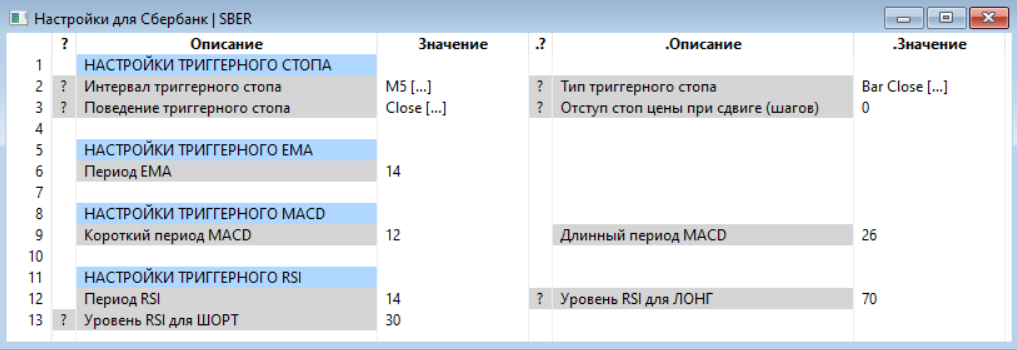
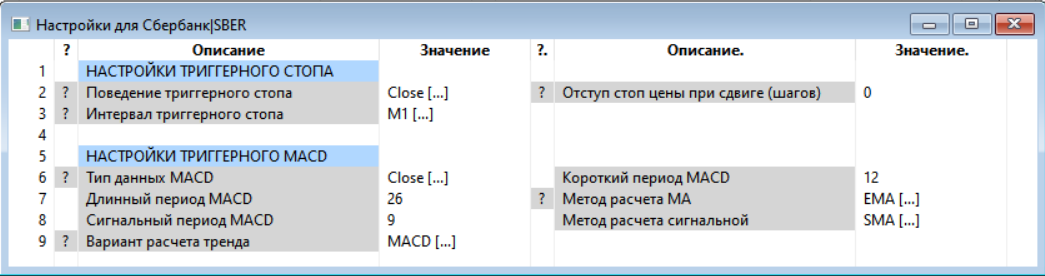
as descr

diff --git a/_posts/2021-03-14-multiAutoStop.md b/_posts/2021-03-14-multiAutoStop.md
@@ -71,23 +71,48 @@ tags: [скрипт,lua,qlua,квик,quik,автостоп]
 
 ![](/assets/images/mas/mAS_0.PNG)
 
+Если включить настройку отображения окна настроек с закладками (параметр WINDOW_TABS = 1 в файле multiAutoStopUltra_params.txt), то окно будет показано в таком виде:
+
+![](/assets/images/mas/tab_settings.PNG)
+
+
 Большинство параметров содержат описание. Его можно вызвать по кнопке "?".
 
 ![](/assets/images/mas/mAS_2.PNG)
 
 ### Раздел “ОБЩИЕ НАСТРОЙКИ” содержит настройки:
 
- - Идентификатор скрипта - комментарий, добавляемый к транзакциям. По нему можно будет определить ордера и сделки, совершенные скриптом.
- - Запустить при запуске - автоматический запуск строк скрипта при запуске.
+ - Идентификатор скрипта - комментарий, добавляемый к транзакциям. По нему можно будет определить ордера и сделки, совершенные скриптом. Идентификатор должен быть уникальным среди всех скриптов и строк скрипта. При этом необходимо обеспечить уникальность "по вхождению". Для примера идентификаторы str и str1 не уникальные, т.к. первый входит во второй. А str0 и str1 уже уникальные. Не допускается использовать символы ( ) . % + - * ? [ ^ $
+ - Запустить при запуске - в режиме ON при загрузке Квика и при условии, что скрипт робота в разделе Сервисы – Lua скрипты также запущен, то робот сам включится и будет отслеживать позиции согласно своих настроек.
  - Время автозапуска - конкретное время для автозапуска. Указывается как строка вида ЧЧ:ММ:СС. Либо ЧЧ:ММ. Если указано, то настройка "Запустить при автозапуске" не работает.
  - Время автоостановки - время остановки сроки скрипта. Указывается как строка вида ЧЧ:ММ:СС. Либо ЧЧ:ММ.
- - автоматическое закрытие позиции по времени автоостановки.
+ - Закрывать позицию при автоостановке - автоматическое закрытие позиции по времени автоостановки.
  - Заменять инструмент на следующий за указанное число дней до экспирации. Важно: происходит только замена инструмента в строке скрипта. Позиция и уже выставленные ордера при этом не затрагиваются.
- - Идентификатор графика куда будут выводиться метки сделок в виртуальном режиме работы. Также метки скрытых стоп-ордеров. Задается в разделе "Дополнительно" свойств цены графика.
  - Отправлять сообщения в Телеграм.
  - Отправлять сообщения E-Mail.
- - Выводить метку позиции - Если заполнен Идентификатор графика, то можно вывести метку средней цены позиции.
- - Калькулятор инструмента - отрытие окна информации по инструменту, калькулятора расчета объема позиции, размера стоп-профита.
+ - Дублировать сообщения в Терминал Квик - Все сообщения отображаются в списке сообщений строки. При включении настройки будет выводиться стандартное окно сообщений терминала.
+ - Воспроизводить звуковой сигнал. (Если подключен модуль звуковых оповещений)
+ - Настроить отправку сообщений - команда вызова окна настройки отправки оповещений
+    1.	Авто запуск|остановка - Авто запуск|остановка.
+    2.	Состояние соединения - Состояние соединения.
+    3.	Состояние торговой сессии - Состояние торговой сессии.
+    4.	Состояние отложенного входа.
+    5.	Сигналы триггерного стопа.
+    6.	Состояние стоп-профит ордеров.
+    7.	Состояние трейлинга стоп ордера
+    8.	Изменение позиции.
+    9.	Контроль риск параметров - Контроль риск параметров.
+ - Калькулятор инструмента - команда открытия окна калькулятора по инструменту.
+ - Команда "Настроить позицию" - Настроить позицию: Необходимо заполнить (отредактировать) уровни входа текущей позиции. Это может понадобится в тех случаях, когда скрипт не смог корректно рассчитать средную цену входа текущей позиции.
+ - Идентификатор графика куда будут выводиться метки сделок в виртуальном режиме работы. Также метки скрытых стоп-ордеров. Задается в разделе "Дополнительно" свойств цены графика.
+ - Выводить метку позиции - если заполнен Идентификатор графика, то можно вывести метку средней цены позиции.
+ - Выводить метки сделок - Если заполнен Идентификатор графика, то можно выводить метки всех сделок. Для виртуальной торговли метки выводятся независимо от настройки.
+
+#### Окно формы редактирования позиции:
+
+![](/assets/images/net/pos_settings.PNG)
+
+Открытая позиция - это одна или несколько сделок в указанных количестве и цене. Исходя из введенных данных рассчитывается среднняя, объем позиции.  В процессе работы данные о позиции рассчитываются автоматически, но т.к. скрипт не учитывает сделки, совершенные минуя команды скрипта (т.е. руками через терминал, другими скриптами), то может возникнуть ситуация когда текущая реальная позиция не соответствует той, что помнит скрипт. Или это возможно, когда скрипт был запущен когда позиция уже была сформирована, а сделки (или их часть) отстутствуют в терминале. Допустим, сделки были несколько торговых сессий назад.
 
 ### Раздел “ТОРГОВЫЕ НАСТРОЙКИ” содержит настройки:
 
@@ -97,6 +122,7 @@ tags: [скрипт,lua,qlua,квик,quik,автостоп]
  - Проверять лимиты - при подаче заявки проверить доступность денежных средств.
  - Проверять лимиты цен - при подаче заявки проверить что цена заявки в допустимом диапазоне цен.
  - Ожидание при сдвиге ордера (сек.) - если установлен стоп-ордер и пользователь сдвинул его на графике на новый ценовой уровень, то скрипт ждет его появления, прежде чем перевыставить новый ордер. Если пользователь просто случайно (по ошибке) снял его, то скрипт через указанной время выставит заново стоп ордер.
+ - Ожидание сигнала после ошибки (сек.) - Период ожидания (в сек.) обработки нового торгового сигнала в случае прошлой неудачной попытки. Если при обработке торгового сигнала была ошибка (недостаточно средств, отвергнутая заявка и т.д.), то следующий сигнал того же характера будет отработан по истечении периода ожидания
 
 ### Раздел “ОТЛОЖЕННЫЙ ВХОД” содержит настройки:
 
@@ -108,6 +134,15 @@ tags: [скрипт,lua,qlua,квик,quik,автостоп]
   - >=
   - <=
 - Уровень входа - уровень цена активации сделки
+- Тип цены отступа от уровня входа. Возможные значения:
+  - % (процент) - процент
+  - Steps – шаги цены инструмента
+  - Pips - пункты цены инструмента
+  - RUR - рубли. Здесь и далее имеется ввиду сумма в рублях относительно позиции по инструменту. Допустим 100 рублей на всю позицию.
+- Отступ от уровня входа - При активации условия будет установлен ордер по цене уровень + отступ в направлении сделки. Т.о. если необходимо войти по рынку, то необходимо задать большой положительный отступ.
+Отрицательный отступ смещает цену ордера против направления входа. Т.о. можно задать фиксированный уровень постановки лимитного ордера при активации условия.
+Параметр разрешено изменять при запущенном алгоритме. Изменение доступно через клавиши "стрелка влево" или "Стрелка вправо"
+
 
 
 ### Раздел “НАСТРОЙКИ СТРОПА” содержит настройки:
@@ -124,50 +159,129 @@ tags: [скрипт,lua,qlua,квик,quik,автостоп]
    - RUR - рубли. Здесь и далее имеется ввиду сумма в рублях относительно позиции по инструменту. Допустим 100 рублей на всю позицию.
    - Price - конкретная цена
  - Стоп-лосс - значение стоп-лосса в указанных единицах. Данная настройка также выведена в главное окно скрипта, для быстрого изменения значения стоп-лосса без открытия окна настроек.
- - Отступ для исполнения стоп-лосса в указанных единицах цены инструмента после активации стоп-лосса (проскальзывание).
- - Дисциплинированный стоп - настройка, запрещающая сдвинуть стоп. Если активирован этот режим, то любое изменение стопа приведет к его снятию и восстановлению состояния.
- - Реверсивный стоп - Настройка, позволяющая развернуть позицию при срабатывании стопа. Важно - настройка не работает для Типа стоп-лосса = "Stop+Profit"
- - Реальный ордер после - Данная настройка позволяет изменить стоп-ордер с скрытого на реальный по достижении ценой заданного уровня. Работает только если выбран Тип стоп-лосса = "Hidden"
+ - Тип проскальзывания (отступа) стоп-лосса. Возможные значения:
+   - % (процент) - процент
+   - Steps – шаги цены инструмента
+   - Pips - пункты цены инструмента
+ - Проскальзывание стопа в указанных единицах цены инструмента после активации стоп-лосса.
  - Не изменять стоп при наращивании позиции - При наращивании позиции стоп ордер изменяется под новый объем и устанавливается по настройкам. Если уровень ордера был изменен (сдвинут), то можно зафиксировать текущий размер стопа и установить новый с этим размером от новой средней цены позиции или на том же уровне. Возможные значения:
     - OFF - Выключено. При изменении позиции стоп-лосс будет установлен от новой средней цены позиции.
     - SIZE - будет поддерживаться текущий размер стоп-лосса от новой средней цены позиции.
     - VALUE - будет установлен стоп-ордер на том же уровне.
+ - Дисциплинированный стоп - настройка, запрещающая сдвинуть стоп. Если активирован этот режим, то любое изменение стопа приведет к его снятию и восстановлению состояния.
+ - Реверсивный стоп - Настройка, позволяющая развернуть позицию при срабатывании стопа. Важно - настройка не работает для Типа стоп-лосса = "Stop+Profit"
+ - Допустимое число реверсивных разоротов - Если задано число больше 0, то будет контролироваться число разворотов. По достижению лимита, настройка "Реверсивный стоп" отключается. При запуске-остановке счетчик сбрасывается.
+ - Реальный ордер после - Данная настройка позволяет изменить стоп-ордер с скрытого на реальный по достижении ценой заданного уровня. Работает только если выбран Тип стоп-лосса = "Hidden"
+ - Дата действия заявок типа стоп. Возможные значения:
+   - GTC - до истечения срока жизни инструмента (по факту 30 дней)
+   - Today - сегодня
+   - Конкретная дата
+ - Не искать заявки с комментарием - в процессе работы скрипт ищет установленные стоп-ордера. Если стоп-ордер будет содержать этот комментарий, то такой ордер не будет рассматриваться в процессе поиска.
+ - Не искать чужие заявки - Если данный режим выключен, то скрипт контролирует только свои стоп-ордера, с учетом введенного значения “Идентификатор скрипта”, который обязателен в этом режиме. В режиме "OFF" осуществляется поиск всех ордеров. Важно обеспечить уникальность параметра “Идентификатор скрипта”.
+
+#### Модуль ТРИГГЕРНЫЙ СТОП
 
  - Триггерный скрытый стоп - Режим стоп заявки, который активируется по событиям. Настройки триггерного стопа:
 
+![](/assets/images/mas/trigger_choose.PNG)
+
+##### Режимы триггерного стопа:
+
+- "Bar Close" - по закрытию бара. В этом режиме активация стопа происходит не по движению цена, а если бар закрылся выше (ниже) текущего стопа. Важно: данный режим возможен только если активирован тип стоп-лосса "Hidden.
+- "MA" - по пересечению MA. Если очередной бар закрывается за MA, то происходит принудительное закрытие позиции. Для позиции ЛОНГ - закрытие ниже, для ШОРТ - выше.
+- "MACD" - если MACD последнего закрытого бара изменяет тренд, то происходит принудительное закрытие позиции.
+- "PSAR" -  если Parabolic SAR последнего закрытого бара меняет направление, то происходит принудительное закрытие позиции.
+- "OSC"  -  если значение осциллятора последнего закрытого бара пересекает уровень, то происходит принудительное закрытие позиции.
+- "BOL"  -  если очередной бар пересекает канал BOL, то происходит принудительное закрытие позиции. Для позиции ЛОНГ - закрытие ниже нижней границы, для ШОРТ - выше верхней границы.
+
+##### Общие настройки триггерного стопа:
+
+-	Поведение триггерного стопа, когда возникает триггерный сигнал. Возможные значения:
+-	Close - как только возникает сигнал по одному из алгоритмов, позиция будет закрыта.
+-	Shift Stop - сдвинуть стоп за минимум|максимум бара. Если цена пойдет дальше, то стоп сработает, если это было ложно движение, то позиция останется.
+-	 Важно: Данная настройка работает только для режимов: EMA|MACD|RSI
+-	Отступ стоп цены при сдвиге (шагов) - Если выбран режим поведения триггерного стопа "Shift Stop", то данный параметр задает величину смещения относительно уровня в шагах цены для сдвига стоп-ордера. Для примера, при позиции ЛОНГ бар закрылся за линией EMA, выбран режим "Shift Stop". Произойдет сдвиг стоп-ордера за минимум бара. При этом стоп-ордер будет установлен на уровень Low бара - сдвиг
+- Интервал триггерного стопа - интервал баров для триггерного стопа.
+
+
+##### Пример окна настройки алгоритма MA:
+
+![](/assets/images/mas/trigger_ma.PNG)
+
+Можно указать вариант расчет MA:
+- *EMA - Exponential Moving Average
+- *SMA - Simple Moving Average
+- *WMA - Weighted by index Moving Average
+- *VWMA - Volume Adjusted Moving Average
+- *SMMA - Smoothed Moving Average
+- *TEMA - The Triple Exponential Moving Average
+- *DEMA - The Double Exponential Moving Average
+- *TMA - Triangular (extreme smooth) Moving Average
+- *WILLMA - William Moving Average
+- *FRAMA - Fractal Adaptive Moving Average
+- *SSMA - SuperSmoother filter Moving Average by John F. Ehlers
+- *LSMA - Least Squares MA
+
+##### Пример окна настройки алгоритма MACD:
+
 ![](/assets/images/mas/mAS_3.PNG)
 
-   - Интервал триггерного стопа - интервал баров для триггерного стопа.
-   - Режимы триггерного стопа:
-     - "Bar Close" -  по закрытию бара. В этом режиме активация стопа происходит не по движению цена, а если бар закрылся выше (ниже) текущего стопа. Важно: данный режим возможен только если активирован тип стоп-лосса "Hidden.
-     - "EMA"       -  по пересечению EMA. Если очередной бар закрывается за EMA, то происходит принудительное закрытие позиции.
-     - "MACD"      -  если MACD последнего закрытого бара пересекает 0, то происходит принудительное закрытие позиции
-     - "RSI"       -  если RSI последнего закрытого бара пересекает уровень, то происходит принудительное закрытие позиции
-   - Поведение триггерного стопа, когда возникает триггерный сигнал. Возможные значения:
-   - Close - как только возникает сигнал по одному из алгоритмов, позиция будет закрыта.
-   - Shift Stop     - сдвинуть стоп за минимум|максимум бара. Если цена пойдет дальше, то стоп сработает, если это было ложно движение, то позиция останется.
-     -  Важно: Данная настройка работает только для режимов: EMA|MACD|RSI
-   - Отступ стоп цены при сдвиге (шагов) - Если выбран режим поведения триггерного стопа "Shift Stop", то данный параметр задает величину смещения относительно уровня в шагах цены для сдвига стоп-ордера. Для примера, при позиции ЛОНГ бар закрылся за линией EMA, выбран режим "Shift Stop". Произойдет сдвиг стоп-ордера за минимум бара. При этом стоп-ордер будет установлен на уровень Low бара - сдвиг
-   - Для режимов необходимо указать соответствующие настройки.
+Варианты расчета тренда:
+-	MACD - линия MACD пересекает 0
+-	Signal - линия Signal пересекает 0
+-	MACD-Signal - линия Signal пересекает MACD
 
- - Дата действия заявок типа стоп. Возможные значения:
-     - GTC - до истечения срока жизни инструмента (по факту 30 дней)
-     - Today - сегодня
-     - Конкретная дата
- - Не искать заявки с комментарием - в процессе работы скрипт ищет установленные стоп-ордера. Если стоп-ордер будет содержать этот комментарий, то такой ордер не будет рассматриваться в процессе поиска.
+##### Пример окна настройки алгоритма OSC:
 
-### Раздел “АЛГОРИТМИЧЕСКИЙ СТОП” содержит настройки:
- - Использовать алгоритмический стоп-лосс - переключатель режима.
- - Вариант расчета алгоритмического стоп-лосса. Вариант расчета алгоритмического стоп-лосса. Возможные значения:
-   - ATR - вариант установки стоп-лосса на уровень кратный ATR
-   - FRAC - Вариант установки стоп-лосса на уровень последнего не пробитого фрактала
+![](/assets/images/mas/trigger_osc.PNG)
+
+Допустимые методы расчета осциллятора:
+- RSI - Relative strength index
+- STOCH - Stochastic oscillator
+- WRI - Williams % Range
+- CCI - Commodity channel index
+- EFI - Elder's Force I
+- CMO - Chande Momentum Oscillator
+- JRSX - Jurik Research Relative Strength Quality Index
+
+- Условие пересечения для закрытия ЛОНГ - Если значение осциллятора последнего закрытого бара поднимется выше(опускается ниже) этого уровня, то происходит активация сетки Лонг. Вариант условия выбирается:
+  - <= - Пересечение уровня вниз
+  - >= - Пересечение уровня вверх
+- Уровень для ЛОНГ - Если значение осциллятора последнего закрытого бара поднимется выше(опускается ниже) этого уровня, то происходит активация сетки Лонг.
+- Условие пересечения для закрытия ШОРТ - Если значение осциллятора последнего закрытого бара поднимется выше(опускается ниже) этого уровня, то происходит активация сетки Шорт.
+  - <= - Пересечение уровня вниз
+  - >= - Пересечение уровня вверх
+- Уровень для ШОРТ - Если значение осциллятора последнего закрытого бара поднимется выше(опускается ниже) этого уровня, то происходит активация сетки Шорт.
+Важно. Если выбраны условия и уровни таким образом, что сигнал - это когда значение поднимается выше нижнего уровня или опускается ниже верхнего уровня, то такой сигнал может детектироваться только в течении того бара, при котором происходило такое пересечение. Т.к. значение между уровнями не дает однозначеного ответа. Например, для ЛОНГ выбрано условие >= 30, для ШОРТ условие <= 70. Значение 50 находится между 30 и 70, и одновременно удовлетворяет обоим условиям. Поэтому только в момент пересечения можно понять какой сигнал был получен.
+
+
+### Модуль “АЛГОРИТМИЧЕСКИЙ СТОП”:
+
+![](/assets/images/mas/algo_shoose.PNG)
+
+- Вариант расчета алгоритмического стоп-лосса. Вариант расчета алгоритмического стоп-лосса. Возможные значения:
+  - ATR - вариант установки стоп-лосса на уровень кратный ATR
+  - FRAC - Вариант установки стоп-лосса на уровень последнего не пробитого фрактала
+  - STD - стандартное отклонение
+  -	P_RANGE - ценовой канал
+
+При исполнении команды "Настроить алгоритмический стоп" появится окно настроек выбранного алгоритма. Пример окна настроек алгоритма ATR:
+
+![](/assets/images/mas/algo_settings.PNG)
+
  - ТФ расчета алгоритмического стоп-лосса - Выбор интервала ТФ для расчета алгоритмического стоп-лосса
- - Период расчета Фрактала. Необходимо задать нечетное значение.
- - Отступ от фрактала - Отступ от найденного фрактала для формирования значения стоп-лосса
- - Период расчета ATR.
  - Размер стоп-лосса в ATR - Размер стоп-лосса выраженный в ATR.
  - Мин. стоп-лосс - Если полученный размер стоп-лосса меньше заданного, то значение стоп-лосса определяется минимальным значением
  - Макс. стоп-лосс - Если полученный размер стоп-лосса больше заданного, то значение стоп-лосса определяется максимальным значением
+ - Период расчета ATR.
+
+Пример окна настроек алгоритма FRAC:
+
+![](/assets/images/mas/frac_algo_settings.PNG)
+
+ - Период расчета Фрактала. Необходимо задать нечетное значение.
+ - Отступ от фрактала - Отступ от найденного фрактала для формирования значения стоп-лосса
+ - Сдвигать стоп по новому фракталу - Осуществлять трейл стоп-ордера по последнему непробитому фракталу. При осуществлении сдвига по фракталу учитываются ограничения на макс.-мин. размер стопа-лосса.
 
 
 ### Раздел “НАСТРОЙКИ ПРОФИТА” содержит настройки:
@@ -222,8 +336,15 @@ tags: [скрипт,lua,qlua,квик,quik,автостоп]
      - SIZE - будет поддерживаться текущий размер тейк-профит от новой средней цены позиции.
      - VALUE - будет установлен тейк-профит ордер на том же уровне.
 
+- Реверсивный тейк-профит - Настройка, позволяющая развернуть позицию при срабатывании тейк-профита. Если активирован многоступенчатый тейк-профит, то разворот произойдет при срабатывании последнего уровня. Важно - настройка не работает для Типа стоп-лосса = "Stop+Profit".
+-	Допустимое число реверсивных разоротов - Если задано число больше 0, то будет контролироваться число разворотов. По достижению лимита, настройка "Реверсивный тейк-профит" отключается. При запуске-остановке счетчик сбрасывается.
+-	Не искать заявки с комментарием - в процессе работы скрипт ищет установленные профит-ордера. Если стоп-ордер будет содержать этот комментарий, то такой ордер не будет рассматриваться в процессе поиска.
+-	Не искать чужие заявки - Если данный режим выключен, то скрипт контролирует только свои профит-ордера, с учетом введенного значения “Идентификатор скрипта”, который обязателен в этом режиме. В режиме "OFF" осуществляется поиск всех ордеров. Важно обеспечить уникальность параметра “Идентификатор скрипта”.
+
+
 
 ### Раздел “НАСТРОЙКИ ТРЕЙЛА” содержит настройки:
+ - Трейлить стоп - переключатель режима. Если выключено, то осуществляется только сдвиг по времени и безубытку.
  - Тип цены трейлинга стоп-лосса. Возможные значения:
    - % (процент) - процент
    - Steps – шаги цены инструмента
@@ -233,18 +354,15 @@ tags: [скрипт,lua,qlua,квик,quik,автостоп]
  - Перевести в безубыток после движения цены в указанных единицах.
  - Перевести в безубыток после ТП1 - если включен режим "Многоступенчатый тейк-профит", то включение данной настройки позволит перевести в безубыток стоп-лосс при исполнении первого уровня тейк-профита.
  - Сдвиг безубытка в указанных единицах - сдвиг стопа при переносе в безубыток. Стоп будет установлен по цене позиции выше (ниже) на указанный размер сдвига.
- - Трейлить стоп - переключатель режима. Если выключено, то осуществляется только сдвиг по времени и безубытку.
- - Трейлить стоп по фракталу - Осуществлять трейл стоп-ордера по последнему непробитому фракталу. Для работы необходимо активировать Алгоритмический стоп в режиме "FRAC". Трейл также активируется в соответствии с настройкой "Начать трейл после".
  - Начать трейл после - Начало трейлинга стоп-лосса в указанных единицах. Если указан данный параметр, то активация трейлинга произойдет только если цена прошла указанный интервал в сторону сделки.
  - Сдвигать стоп по факту активации трейла - Если включено, то при активации трейла по достижению точки начала трейла будет сдвинут стоп. Если выключено, то сдвиг стоп-ордера начнется только после того как цена продет еще размер заданного шага трейла.
  - Поддерживать размер стопа при трейлинге - Если включено, то при трейлинге будет поддерживаться заданный в настройках размер стоп-лосса. Если выключено, то стоп-лосс будет просто сдвигаться на размер пройденного шага цены. Т.о. если был изменен стоп-ордер на графике, то размер стоп-лосса останется измененным.
  - Шаг трейлинга стоп-лосса в указанных единицах. По мере движения цены стоп-лосс будет двигаться за ценой. Если цена прошла в сторону открытой сделки больше и равной шагу трейлинга, то стоп-лосс сдвинется. Т.о. если необходимо обеспечить постоянный сдвиг стоп-лосса за ценой, необходимо установить размер шага трейлинга = 1 шаг (пункт). Если шаг больше 1, то цена должна пройти данный интервал, чтобы стоп был сдвинут. Это позволит уменьшить число транзакций по сдвигу стоп-ордера.
+ -	Временной трейл стоп-лосса - проверяется цена с указанным интервалом. Если цена прошла в сторону открытой сделки и лучше чем при прошлой проверке, то стоп-лосс сдвинется на пройденное расстояние от прошлой проверки.
+ Т.о. стоп сдвигается не просто по факту пройденного расстояния, а по факту пройденного расстояния именно в момент проверки.
+ -	Интервал трейла в минутах.
  - Скользящий стоп в указанных единицах - размер стопа после активации трейлинга. Когда трейлинг активировался, размер стоп-лосс будет рассчитан с использованием данного параметра. Если указано значение 0, то размер стопа будет равен изначальному размеру стоп-лосса.
  - Интервал проверки цены (сек.) - данный параметр позволяет установить период проверки текущей цены инструмента. Если установлено значение 0 (значение по умолчанию), то цена будет контролироваться постоянно, при любом движении цены будет происходить контроль трейлинга.  Если установить значение отличное от 0, то цена инструмента будет контролироваться с указанной периодичностью. Такая настройка позволит исключить из контроля трейлинга движения цены прошедшие между проверками. Это в каких-то случаях позволит исключить необоснованные сдвиги стоп-ордера при резких возвратных движениях цены, которые в обычном режиме привели бы к сдвигу стоп-ордера и закрытию позиции при возвратном движении цены.
-
-
-### Раздел “НАСТРОЙКИ ПОЗИЦИИ” содержит настройки:
- - Уровень (цена) входа - в данном поле можно указать корректный уровень входа в позицию. Это может понадобится в тех случаях, когда скрипт не смог корректно рассчитать среднюю цену входа текущей позиции. Данная ситуация возможна, когда скрипт был запущен когда позиция уже была сформирована, а сделки (или их часть) отсутствуют в терминале. Допустим, сделки были несколько торговых сессий назад. В этом случае, указывая корректное значение, скрипт сможет правильно установить стоп-лосс и тейк-профит.
 
 
 ### Раздел “КОНТРОЛЬ СДЕЛОК” содержит настройки
@@ -265,6 +383,9 @@ tags: [скрипт,lua,qlua,квик,quik,автостоп]
  -	Сохранять журнал сделок - если включено, то будут сохраняться все сделки в файлы для каждого инструмента.
  -	Открыть сделки - команда, открывающая окно закрытых сделок по инструменту.
 
+Контроль лимитов прибыли, убытка, сделок рекомендуется использовать при активированных настройках реверсивный стоп (профит). В этом режиме скрипт сам разворачивает позицию, т.о. контроль лимитов остановит скрипт по их достижению.
+В ручном режиме торговли контроль лимитов может остановит скрипт, сигнализируя о их достижении. Но не сможет предотвратить открытые сделки руками.
+
 
 ### В скрипте (и в окне настроек) действуют следующие правила редактирования значения параметров:
 
@@ -275,5 +396,19 @@ tags: [скрипт,lua,qlua,квик,quik,автостоп]
  - Изменение значения через плавное изменение клавишами “стрелка влево” и “стрелка вправо” возможны при работающем роботе, т.к. при таком способе ввода исключается синтаксическая ошибка.
  - Часть команд настроек “[...]” доступна при работающем скрипте по инструменту. Допустим, для примера, можно включить и остановить трейлинг стоп-лосса. Можно изменить тип стоп-лосса, тейк-профита при этом произойдет перевыставление ордеров в соответствии с указанными настройками. Допустим, изменив тип тейк-профита с стопа на лимитный ордер, произойдет его перевыставление. Если строка инструмента находится в остановленном состояния, то реакция на изменение настроек произойдет только после запуска торговли по инструменту.
  - В поле "Message" выводятся сообщения по строке алгоритма. Если дважды нажать правой клавишей указателя по полю в стоке, то откроется дополнительное окно всех ранее выведенных сообщений по строке.
+
+Скрипт поддерживает горячие клавиши:
+
+ - Остановить все строки - Shift + 1
+ - Запустить все строки - Shift + 2
+ - Сдвинуть строку вниз - Shift + "-"
+ - Сдвинуть строку вверх - Shift + "+"
+ - Скопировать строку - Sift + C.  Для корректной работы необходимо выбрать строку не в поле выбора инструмента.
+
+Если выполнить команду "Калькулятор инструмента" из окна настроек или команду "+/-" из основного окна, то откроется окно калькулятора по инструменту:
+
+  ![](/assets/images/net/calculus_window.PNG)
+
+В этом окне можно рассчитать взаимные значения между введенными параметрами. Также выводится справочная информация по инструменту.
 
 Также скрипт поддерживает отправку сообщений в Телеграм, E-Mail, реализованную через [библиотеку](/2021-03-14/teleMessage)

diff --git a/_posts/2023-06-11-SmartAlgoNet.md b/_posts/2023-06-11-SmartAlgoNet.md
@@ -544,11 +544,11 @@ tags: [скрипт,lua,qlua,квик,quik,сеточник,SmartAlgoNet]
    - RUR - рубли. Здесь и далее имеется ввиду сумма в рублях относительно позиции по инструменту. Допустим 100 рублей на всю позицию.
    - Price - конкретная цена
  - Стоп-лосс - значение стоп-лосса в указанных единицах. Данная настройка также выведена в главное окно скрипта, для быстрого изменения значения стоп-лосса без открытия окна настроек.
- - Типы отступа исполнения стоп-лосса. Возможные значения:
+ - Тип проскальзывания (отступа) стоп-лосса. Возможные значения:
    - % (процент) - процент
    - Steps – шаги цены инструмента
    - Pips - пункты цены инструмента
- - Отступ для исполнения стоп-лосса в указанных единицах цены инструмента после активации стоп-лосса (проскальзывание).
+ - Проскальзывание стопа в указанных единицах цены инструмента после активации стоп-лосса.
  - Дата действия заявок типа стоп. Возможные значения:
    - GTC - до истечения срока жизни инструмента (по факту 30 дней)
    - Today - сегодня
